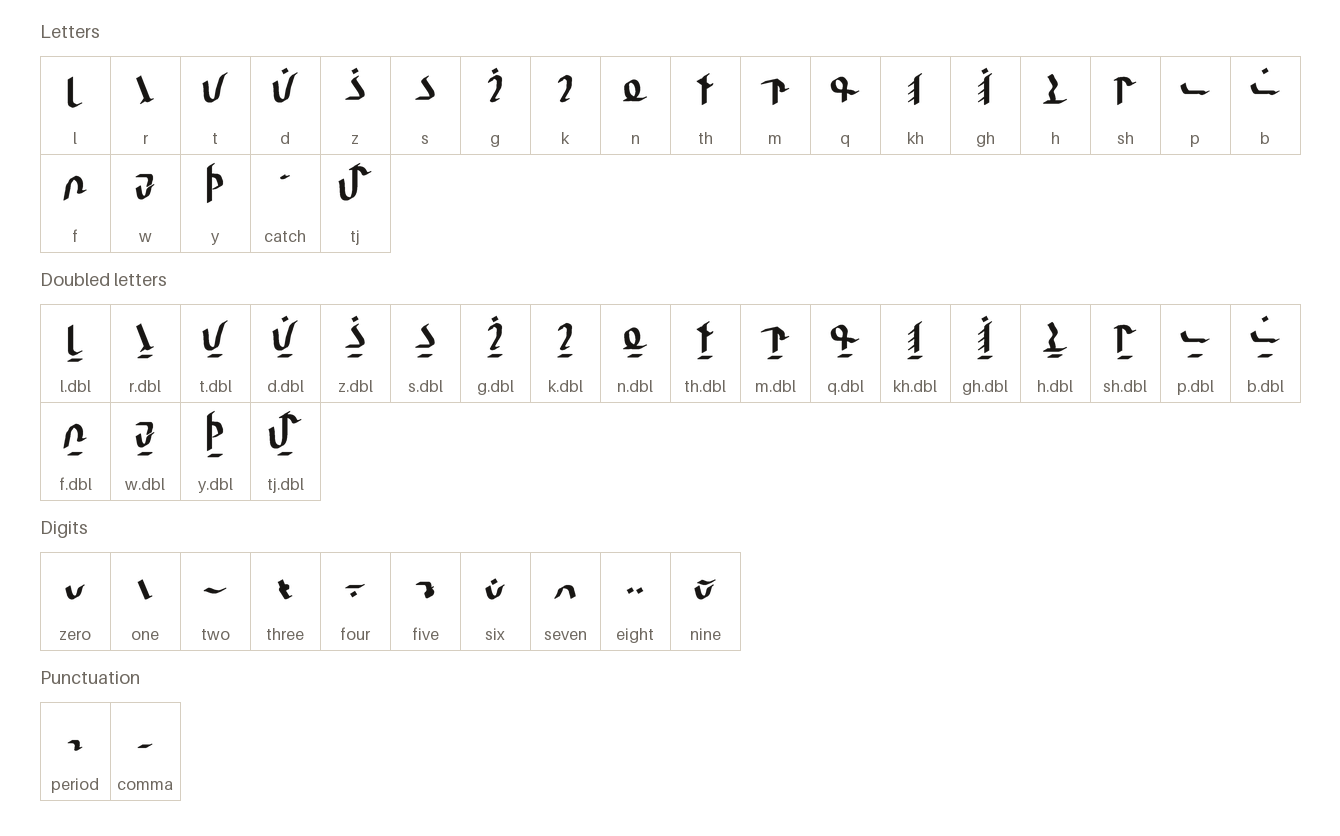
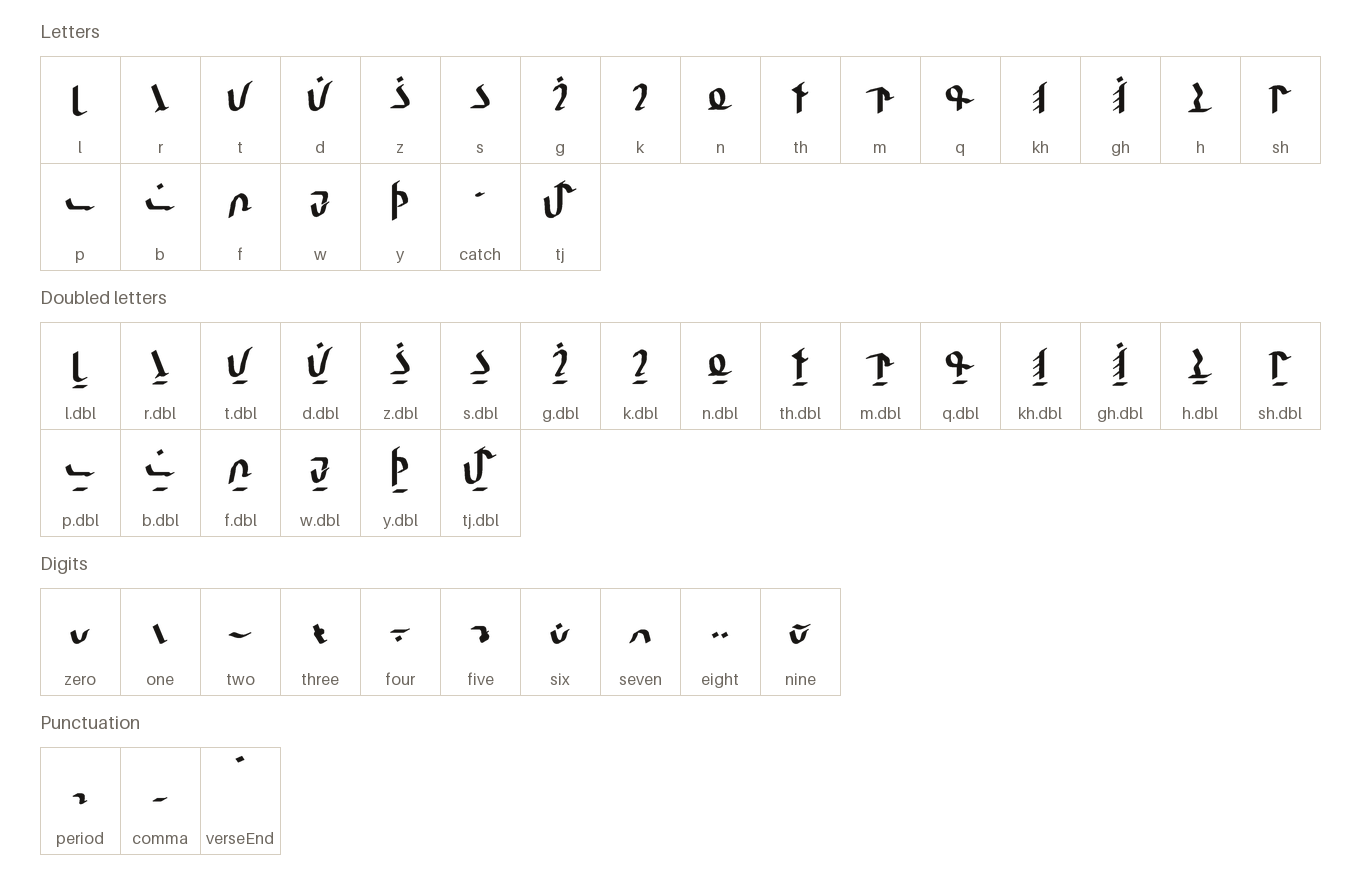
Add Qalezu’s high verse-ending point (#91)

diff --git a/design/qalezu-hand.md b/design/qalezu-hand.md
@@ -85,7 +85,7 @@ No sign needs mark positioning. HarfBuzz, and so Chrome, Foundry and Typst, shap
 
 ## The encoding
 
-`tools/qalezu-hand/encoding.json` is the one table: for each character its glyph name, its code point in U+1EA00–U+1EA3F, its sound and the roman spelling of it, and under `forms` each catch-before form. The signs run from U+1EA00 (the catch is U+1EA15 and `tj` U+1EA16), their doubled forms from U+1EA17, the digits from U+1EA2D and the punctuation from U+1EA37, and the rest of the block is free. Each doubled entry names its sign in a `base` field.
+`tools/qalezu-hand/encoding.json` is the one table: for each character its glyph name, its code point in U+1EA00–U+1EA3F, its sound and the roman spelling of it, and under `forms` each catch-before form. The signs run from U+1EA00 (the catch is U+1EA15 and `tj` U+1EA16), their doubled forms from U+1EA17, the digits from U+1EA2D and punctuation from U+1EA37 through U+1EA39; the remaining code points in the block are free. Each doubled entry names its sign in a `base` field.
 
 The catch-before forms have no code point. The 22 consonant signs' forms are listed in sign order, and their doubled signs' forms follow; each entry's `base` names the sign or doubled sign it carries the triangle over. The space stays U+0020. Everything else reads the table: `tools/qalezu-hand/apply_encoding.py` writes the UFO's character map, the composites and the `rlig` substitution that draws a catch and its sign as the form, `check_font.py` compares the built cmap with it and shapes each catch and sign, and `guard.py` takes the glyph of each code point and each form from it. Every Latin character, the apostrophe included, maps to the box, so stray text prints boxes.
 
@@ -106,10 +106,11 @@ Base ten, place order, ten independent signs from the counting-house tradition, 
 | Mark  | Role          | Shape                                                |
 | ----- | ------------- | ---------------------------------------------------- |
 | `.`   | sentence end  | a short stroke on the line, hooking down at its end  |
+| `·`   | verse end     | a heavy reed-formed dot high in the character space  |
 | `,`   | pause         | a short low dash                                     |
 | space | word division | 200 units, a gap several times the gap between signs |
 
-There is no hyphen, exclamation mark, question mark, semicolon, colon or quotation mark. A hyphen between the parts of a name is written as the space between two words.
+The low sentence-end stroke and the high verse-end dot are separate punctuation. Roman spelling uses U+00B7 MIDDLE DOT (`·`) for the verse end; a physical line break alone does not add it. There is no hyphen, exclamation mark, question mark, semicolon, colon or quotation mark. A hyphen between the parts of a name is written as the space between two words.
 
 ## Building and checking
 

diff --git a/keyboards/index.md b/keyboards/index.md
@@ -24,6 +24,7 @@ HL Semaron, HL Pirzath, HL Thuravark, HL Qalezu, HL Veldikko, HL Vedyakshara and
 - The catch sits on ', the stop on ., the pause on , and the open and close quotes on Shift+, and Shift+., the keys of < and >. Vedyari writes no catch, and its mapping note writes an apostrophe as the cut, so in HL Vedyakshara ' types the cut. Only Pirzath writes quotation marks, so those two keys type nothing in the other scripts.
 - Digits sit on the digit row. Pirzath counts in sixteens, and its numerals ten to fifteen sit on Shift+2 to Shift+7, the keys of @ # $ % ^ &, the characters on those keys.
 - Qalezu writes consonants only, so its vowel keys type nothing; a vowel at the start of a word is written with the catch.
+- Qalezu’s high verse-end dot is a sign typed by Option+Shift+F in HL Qalezu. Its Roman input is U+00B7 MIDDLE DOT; a physical newline does not add it.
 - Vedyakshara's consonant carries the vowel a, so in HL Vedyakshara a consonant is spelled before an a and its key types the bare consonant; the a key types nothing, another vowel key types its vowel sign, and a capital vowel types the vowel's own sign.
 - Markup types itself. The characters Markdown and similar markup need sit at their U.S. positions and type plain ASCII in every layout, so formatting is written without switching layouts, and no script draws them. No sound shares a key with markup; # is not markup because Shift+3 is Pirzath's eleven.
 - A sign that is not a sound sits on a key of its own and types in the one layout whose script writes it, as the quote keys do outside Pirzath. HL Veldikko's six: the carrier on x, and on Option the long sign on L, the bar of a doubled consonant on W, the rise on R, the fall on F and the emphasis on M. No sound shares a key with a sign, and a sign types nothing in the other layouts. HL Helónika's eleven are the letters its sound keys cannot type, since a sound key types kh as k and h: the kh and zh letters on Option+Q and Option+J, the barred long vowels on Option+V, Option+` and C, each with its capital on Shift, and the accent on Option+Shift+M.
@@ -74,6 +75,7 @@ A sign is not a sound. It sits on a key of its own, types in the one layout whos
 | `c` | `c` | long u | HL Helónika | ![U+F0352](../charts/helonika-book/glyphs/U+F0352.svg) | U+F0352 | HELONIKA SMALL LETTER U WITH LENGTH BAR |
 | `shift+c` | `C` | Long U | HL Helónika | ![U+F0322](../charts/helonika-book/glyphs/U+F0322.svg) | U+F0322 | HELONIKA CAPITAL LETTER U WITH LENGTH BAR |
 | `option+shift+m` | `\M` | accent | HL Helónika | ![U+F0378](../charts/helonika-book/glyphs/U+F0378.svg) | U+F0378 | HELONIKA COMBINING ACCENT |
+| `option+shift+f` | `\F` | verse end | HL Qalezu | ![U+1EA39](../charts/qalezu-hand/glyphs/U+1EA39.svg) | U+1EA39 | QALEZU VERSE END |
 
 ## Keys a platform cannot carry
 

diff --git a/keyboards/qalezu.md b/keyboards/qalezu.md
@@ -14,6 +14,8 @@ A printable copy is [qalezu.svg](qalezu.svg) and [qalezu.png](qalezu.png).
 - Character names and code points identify each character exactly, for a program or a character viewer.
 - The Emacs column is what to type in the Emacs input method `heroiclands-qalezu`, where Option is a backslash.
 
+In Roman spelling, U+00B7 MIDDLE DOT (`·`) writes the verse-end dot. `option+shift+f` types it directly in HL Qalezu; a physical line break does not add it.
+
 ## Installing the layout
 
 The layout is a file per platform, named below. [The README](../README.md#installing-a-keyboard-layout) walks through installing each.
@@ -22,6 +24,14 @@ The layout is a file per platform, named below. [The README](../README.md#instal
 - Windows: `keyboards/windows/qalezu.klc`, the Microsoft Keyboard Layout Creator source of **HL Qalezu**.
 - Linux: `keyboards/linux/hl_qalezu`, the XKB symbols of **HL Qalezu**.
 - Emacs: `keyboards/emacs/heroiclands-qalezu.el`, the input method `heroiclands-qalezu`.
+
+## Signs
+
+These keys type no sound. They type in HL Qalezu alone.
+
+| Key | Emacs | Sign | Layout | Glyph | Code point | Name |
+| --- | --- | --- | --- | --- | --- | --- |
+| `option+shift+f` | `\F` | verse end | HL Qalezu | ![U+1EA39](../charts/qalezu-hand/glyphs/U+1EA39.svg) | U+1EA39 | QALEZU VERSE END |
 
 ## Keys a platform cannot carry
 

diff --git a/charts/index.md b/charts/index.md
@@ -6,7 +6,7 @@ Each font has a sheet of every character it draws: a code chart laid out like Un
 - [Khelathi Zethu Glyphs](khelathi-zethu-glyphs.md): 364 characters on 6 chart pages
 - [Pirzath Carved](pirzath.md): 64 characters on 1 chart page
 - [Pirzath Hand](pirzath-hand.md): 64 characters on 1 chart page
-- [Qalezu Hand](qalezu-hand.md): 57 characters on 1 chart page
+- [Qalezu Hand](qalezu-hand.md): 58 characters on 1 chart page
 - [Semaron Kuriale](semaron-kuriale.md): 70 characters on 1 chart page
 - [Teng Chou](teng-chou.md): 305 characters on 3 chart pages
 - [Thuravark Carved](thuravark-carved.md): 45 characters on 1 chart page

diff --git a/charts/qalezu-hand.md b/charts/qalezu-hand.md
@@ -1,6 +1,6 @@
 # Qalezu Hand
 
-57 characters, U+1EA00 to U+1EA38, in the font `Qalezu Hand`.
+58 characters, U+1EA00 to U+1EA39, in the font `Qalezu Hand`.
 
 ## Code chart
 
@@ -84,3 +84,4 @@
 | --- | --- | --- | --- | --- |
 | QALEZU SENTENCE END | ![U+1EA37](qalezu-hand/glyphs/U+1EA37.svg) | U+1EA37 | `&#125495;` | `&#x1EA37;` |
 | QALEZU PAUSE | ![U+1EA38](qalezu-hand/glyphs/U+1EA38.svg) | U+1EA38 | `&#125496;` | `&#x1EA38;` |
+| QALEZU VERSE END | ![U+1EA39](qalezu-hand/glyphs/U+1EA39.svg) | U+1EA39 | `&#125497;` | `&#x1EA39;` |

diff --git a/.changeset/qalezu-high-verse-dot.md b/.changeset/qalezu-high-verse-dot.md
@@ -1,0 +1,5 @@
+---
+"@heroiclands/fonts": minor
+---
+
+- Add a high verse-ending dot to Qalezu Hand.
